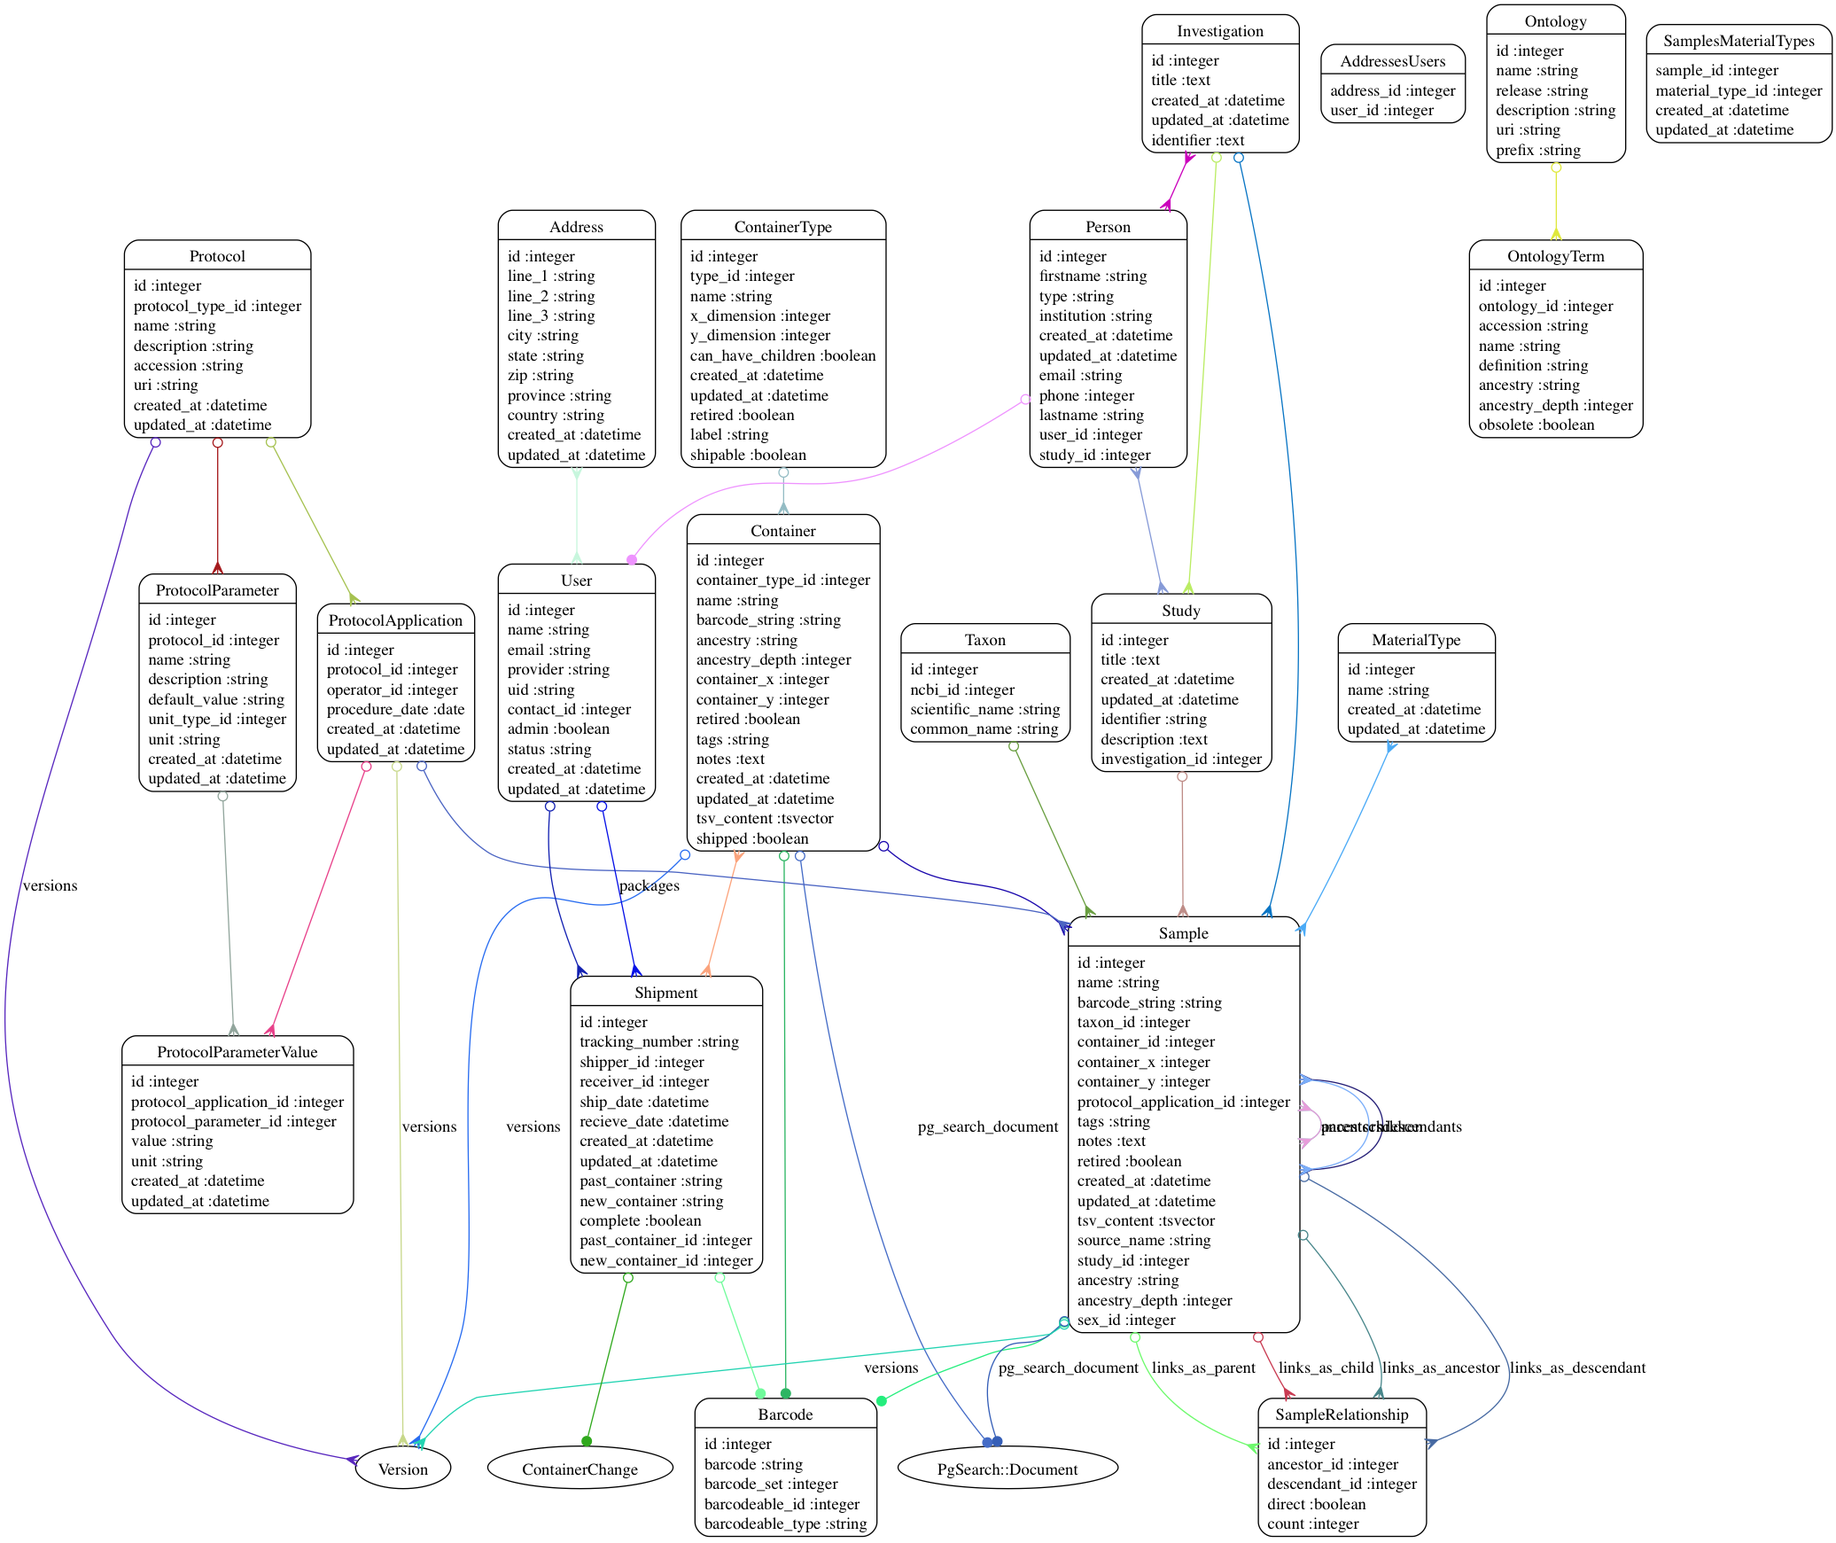
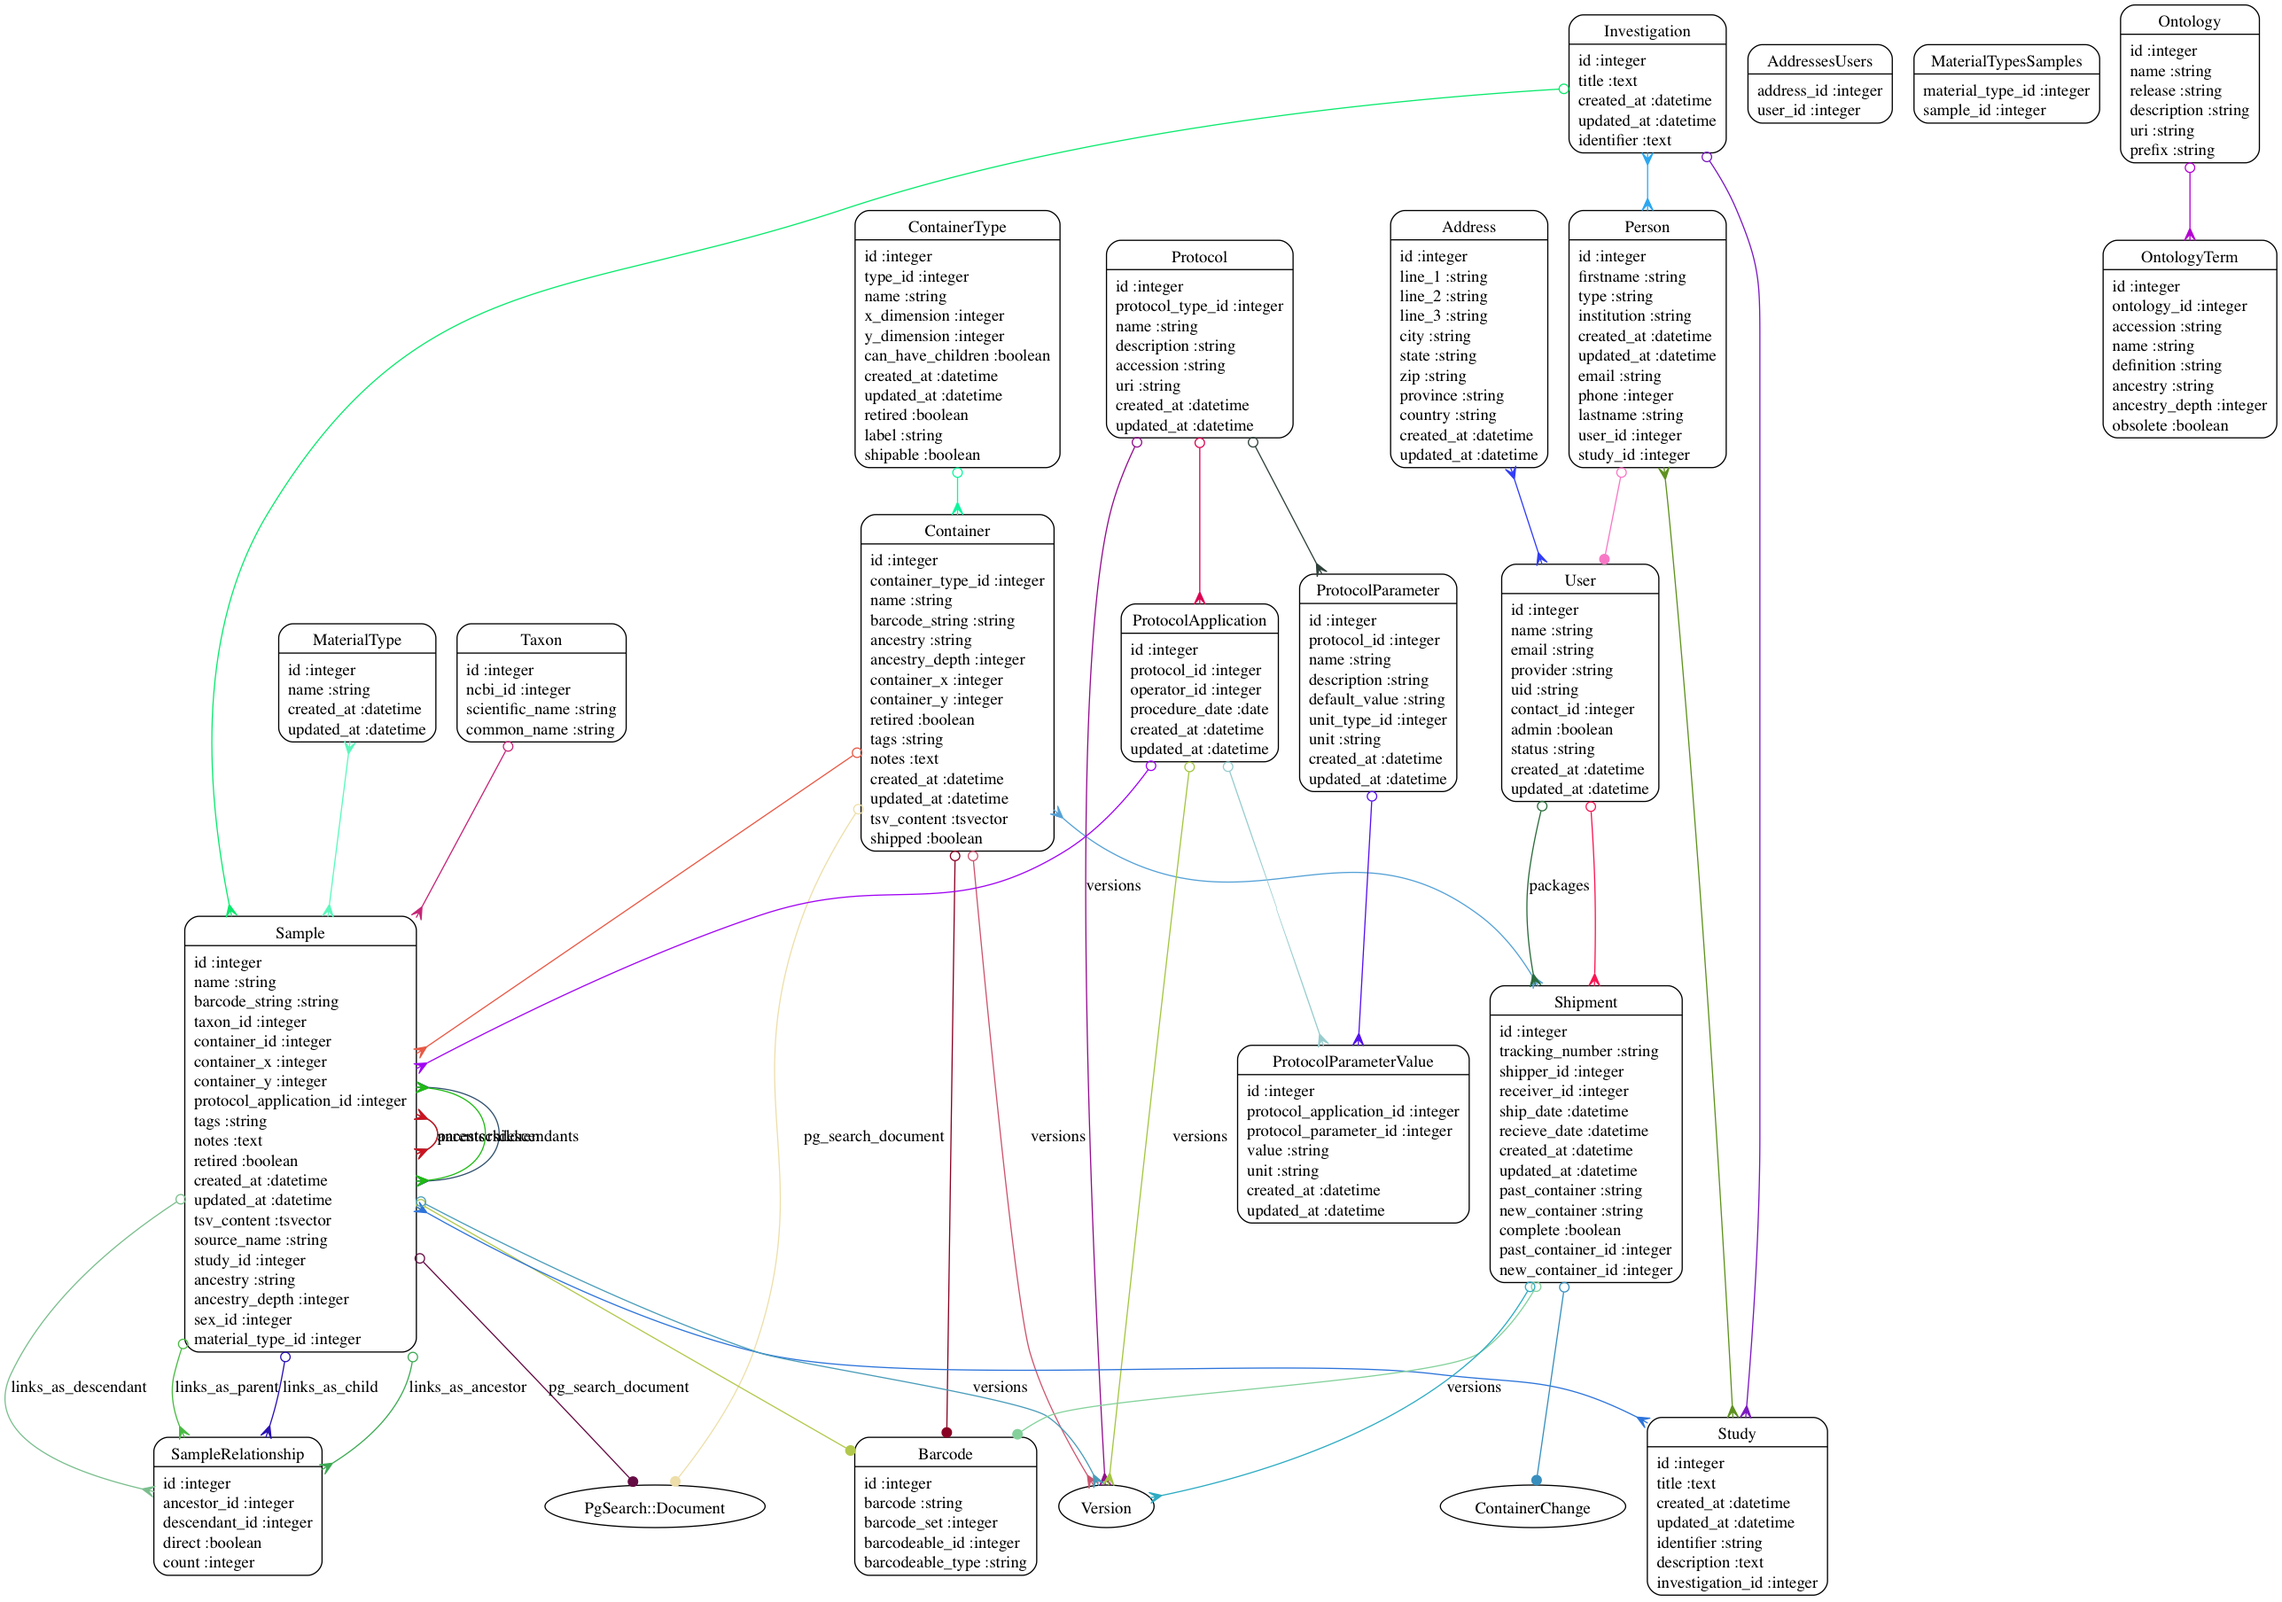
Add/modify habtm association table for material types. Changes in samples, containers, container types, shipments, ontology terms views. Work on shipments, add scope methods in address, ontology term, sample and container. Add more methods to controllers. Try out new gem for exporting haml to pdf (w

diff --git a/app/models/container.rb b/app/models/container.rb
@@ -42,16 +42,32 @@ class Container < ActiveRecord::Base
     scope :with_children, ->() {
         joins(:container_type).where(container_types: {can_have_children: true})
     }
-    scope :non_tube, ->() {
-        # joins(:container_type).where('container_types.type' => 'test tube')
-        joins(:container_type).where(container_types: {name: "1.5 mL tube"})
-        # joins(:container_type).where(container_types: {"test tube" not in (?) :type})
+    scope :shipable, ->() {
+        joins(:container_type).where(container_types: {shipable: true})
     }
-    #scope :not_in_use, where(samples_count = 0)
 
-    # def not_in_use
-    #     samples if samples.count == 0
-    # end
+    # TODO!!!
+    # scope :non_tube, ->() {
+    #     # joins(:container_type).where(container_types: {type: "test tube"})
+    #     joins(:container_type).where(container_types: {name: "1.5 mL tube"})
+    # }
+    # scope :empty, includes(:samples).where("samples=?", nil)
+    # scope :empty, ->() {
+    #     joins(:samples).where(samples: {container_id: nil})
+    # }
+    # scope :empty, where(samples => nil)
+    scope :tube_in_use, joins(:container_type).where(container_types: {type: "test tube"})
+
+    # TODO
+    def container_type_type
+        container_type.type
+    end
+    def empty_non_tube
+        if container_type_type != "test tube" && samples.nil?
+            container_type_type
+        end
+    end
+
 
 	def container_type_name
         container_type.name

diff --git a/app/models/sample.rb b/app/models/sample.rb
@@ -32,8 +32,7 @@ class Sample < ActiveRecord::Base
     :notes, :retired, :tags, :sex, :sex_id, :source_name,
     :ancestry, :parent_id, :parent,
     :material_type_ids, :material_type_id,
-    :study_titles, :study_ids, :study_id,
-    :child_type
+    :study_titles, :study_ids, :study_id
 
   # Needed to parse out comma delimited tags from forms into a strict Array
   # def tags=(tgs)
@@ -63,7 +62,7 @@ class Sample < ActiveRecord::Base
   belongs_to :taxon
   belongs_to :sex, class_name: "OntologyTerm", foreign_key: "sex_id"
   has_and_belongs_to_many :studies, :order => "LOWER(title)"
-  #has_one :container_type, :through => :container
+  # has_many :container_types, :through => :container
 
   # parent-child-sibling relationships
   has_ancestry :orphan_strategy => :rootify, :cache_depth => true
@@ -90,6 +89,22 @@ class Sample < ActiveRecord::Base
       titles << study.try(:title)
     end
   end
+
+  # def container_name
+  #   Container.find_by_id(:container_id).name
+  # end
+  # def tubes
+  #   tubes = []
+  #   if container.container_type_id == 3
+  #     tubes.push(container_name)
+  #   end
+  # end
+  # def boxes
+  #   boxes = []
+  #   if container.container_type_id == 5
+  #     boxes.push(container_name)
+  #   end
+  # end
 
   def barcode_string
     barcode.barcode

diff --git a/app/controllers/samples_controller.rb b/app/controllers/samples_controller.rb
@@ -70,4 +70,22 @@ class SamplesController < ApplicationController
         flash[:notice] = "Sample's children were successfully created!"
         redirect_to samples_path
     end
+
+    # def update_laboratory_select
+    #     laboratories = Container.where(:container_type_id=>params[:id]).order(:name) unless params[:id].blank?
+    #     render :partial => "laboratories", :container_types => { :laboratories => laboratories }
+    # end
+    # def update_freezer_select
+    #     freezers = Container.where(:container_type_id=>params[:id]).order(:name) unless params[:id].blank?
+    #     render :partial => "freezers", :container_types => { :freezers => freezers }
+    # end
+    # def update_box_select
+    #     boxes = Container.where(:container_type_id=>params[:id]).order(:name) unless params[:id].blank?
+    #     render :partial => "boxes", :container_types => { :boxes => boxes }
+    # end
+    # def update_tube_select
+    #     tubes = Container.where(:container_type_id=>params[:id]).order(:name) unless params[:id].blank?
+    #     render :partial => "tubes", :container_types => { :tubes => tubes }
+    # end
+
 end

diff --git a/app/controllers/shipments_controller.rb b/app/controllers/shipments_controller.rb
@@ -9,6 +9,22 @@ class ShipmentsController < ApplicationController
     end
     def show
         # @shipment.containers
+        @shipment = Shipment.find(params[:id])
+        respond_to do |format|
+            format.html
+            format.pdf do
+                # pdf = render :pdf => "public/manifests/manifest_#{@shipment.tracking_number}.pdf"
+                
+                WickedPdf.new.pdf_from_string(
+                    render_to_string('shipments/show.html.haml', :layout => "public/manifests/manifest_#{@shipment.tracking_number}.pdf")
+                )
+                
+                save_path = Rails.root.join("public/manifests/","manifest_#{@shipment.tracking_number}.pdf")
+                File.open(save_path, 'wb') do |file|
+                    file << pdf
+                end
+            end
+        end
     end
     def new; end
     def create

diff --git a/app/models/ontology_term.rb b/app/models/ontology_term.rb
@@ -13,7 +13,7 @@
 #
 
 class OntologyTerm < ActiveRecord::Base
-    attr_accessible :accession, :definition, :name, :obsolete, :ontology_id, :ontology, :parent, :parent_id
+    attr_accessible :accession, :definition, :name, :obsolete, :ontology_id, :ontology, :parent, :parent_id, :ancestry, :ancestry_depth
 
     belongs_to :ontology, inverse_of: :ontology_terms
 
@@ -24,6 +24,10 @@ class OntologyTerm < ActiveRecord::Base
     has_ancestry :orphan_strategy => :rootify, :cache_depth => true
 
     alias_method :ontology_term, :parent
+
+    def parents_only
+        OntologyTerm.where("ontology_terms.ancestry_depth =?",0).all
+    end
 
     def pretty_string
         "[#{self.accession}] #{self.name}"

diff --git a/config/routes.rb b/config/routes.rb
@@ -66,6 +66,10 @@ Collos::Application.routes.draw do
       post :edit_multiple
       put :update_multiple
       put :create_multiple
+      # match 'containers/update_laboratory_select/:id', :controller=>'containers', :action => 'update_laboratory_select'
+      # match 'containers/update_freezer_select/:id', :controller=>'containers', :action => 'update_freezer_select'
+      # match 'containers/update_box_select/:id', :controller=>'containers', :action => 'update_box_select'
+      # match 'containers/update_tube_select/:id', :controller=>'containers', :action => 'update_tube_select'
     end
     member do
       post 'place' # place this object into a container

diff --git a/app/controllers/containers_controller.rb b/app/controllers/containers_controller.rb
@@ -60,4 +60,16 @@ class ContainersController < ApplicationController
       flash[:notice] = "Containers were successfully updated!"
       redirect_to containers_path
     end
+
+    # def child_containers_by_depth
+    #     if params[:id].present?
+    #         @child_containers = Container.find(params[:id]).child_containers
+    #     else
+    #         @child_containers = []
+    #     end
+
+    #     respond_to do |format|
+    #         format.js
+    #     end
+    # end
 end

diff --git a/app/models/shipment.rb b/app/models/shipment.rb
@@ -25,7 +25,7 @@ class Shipment < ActiveRecord::Base
   belongs_to :receiver, :class_name => "User", :foreign_key => "receiver_id"
   belongs_to :past_container, :class_name => "Container", :foreign_key => "past_container_id"
   belongs_to :new_container, :class_name => "Container", :foreign_key => "new_container_id"
-  has_one :container_change
+  # has_one :container_change
 
   scope :open_shipments, where("ship_date <= ? and recieve_date is NULL",  Time.now())
 

diff --git a/app/models/material_types_samples.rb b/app/models/material_types_samples.rb
@@ -1,6 +1,6 @@
 # == Schema Information
 #
-# Table name: samples_material_types
+# Table name: material_types_samples
 #
 #  sample_id        :integer          not null
 #  material_type_id :integer          not null
@@ -8,6 +8,6 @@
 #  updated_at       :datetime         not null
 #
 
-class SamplesMaterialTypes < ActiveRecord::Base
+class MaterialTypesSamples < ActiveRecord::Base
 	attr_accessible :sample_id, :material_type_id
 end

diff --git a/app/models/address.rb b/app/models/address.rb
@@ -16,7 +16,10 @@
 #
 
 class Address < ActiveRecord::Base
-  attr_accessible :city, :country, :line_1, :line_2, :line_3, :province, :state, :zip
-  has_and_belongs_to_many :users
+	attr_accessible :city, :country, :line_1, :line_2, :line_3, :province, :state, :zip
+	has_and_belongs_to_many :users
 
+	def name_for_selects
+		"#{line_1}-#{city}"
+	end
 end

diff --git a/config/initializers/mime_types.rb b/config/initializers/mime_types.rb
@@ -5,3 +5,4 @@
 # Mime::Type.register_alias "text/html", :iphone
 # need this? 
 # Mime::Type.register_alias "text/csv", :csv
+Mime::Type.register "application/pdf", :pdf
